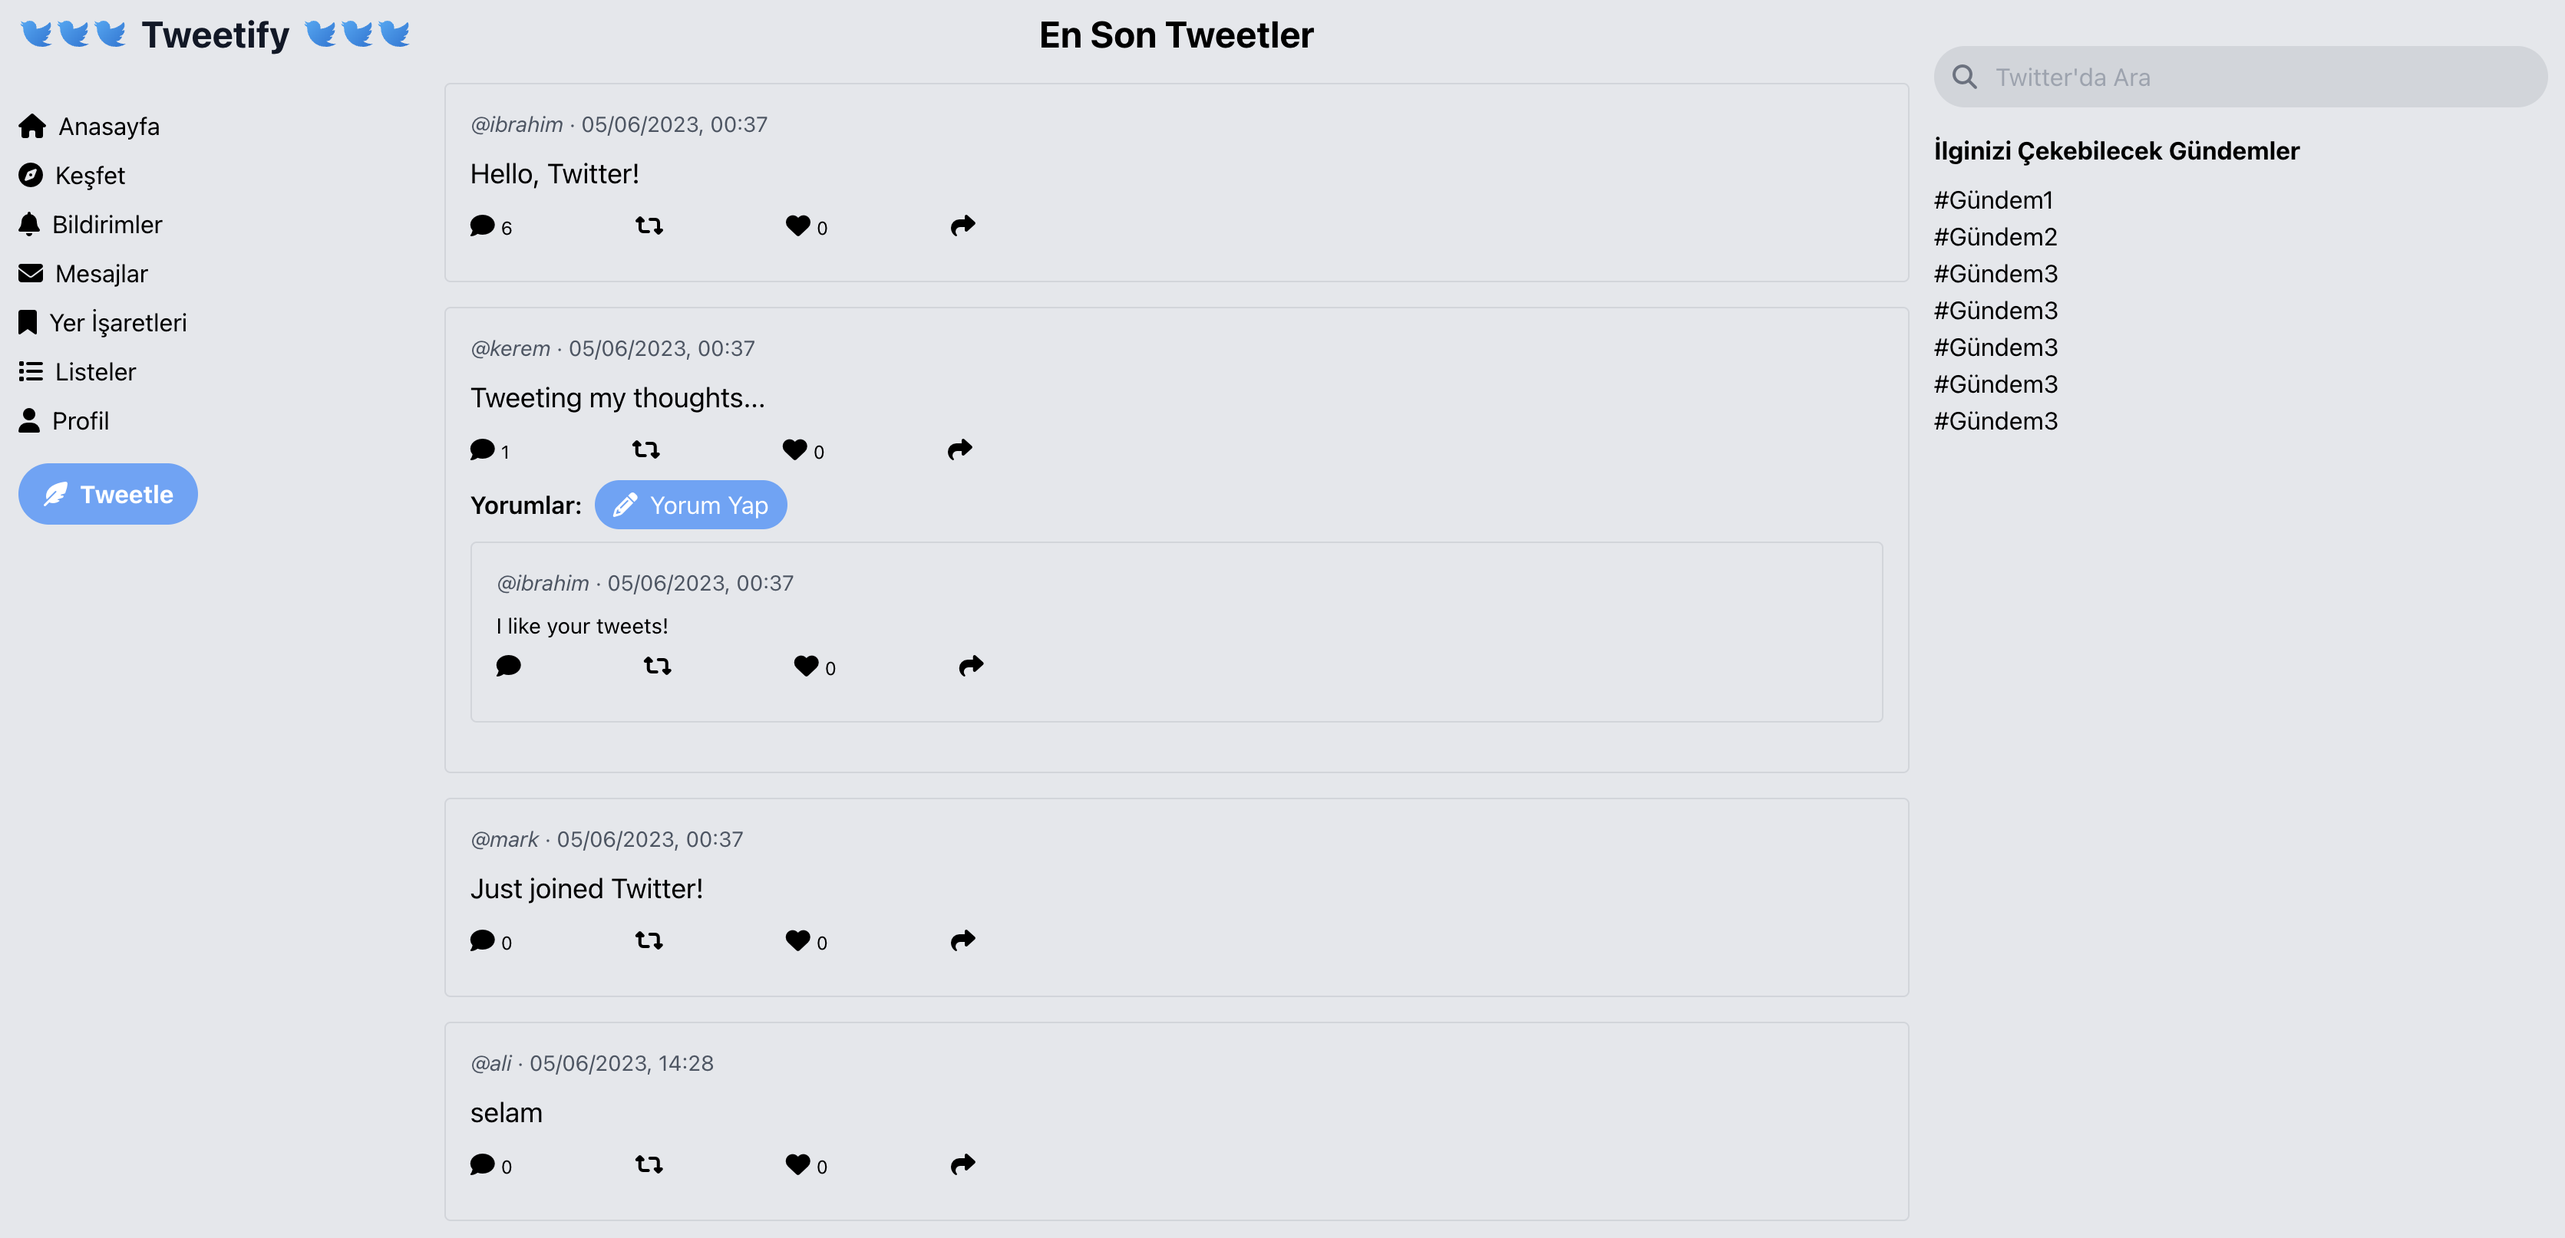
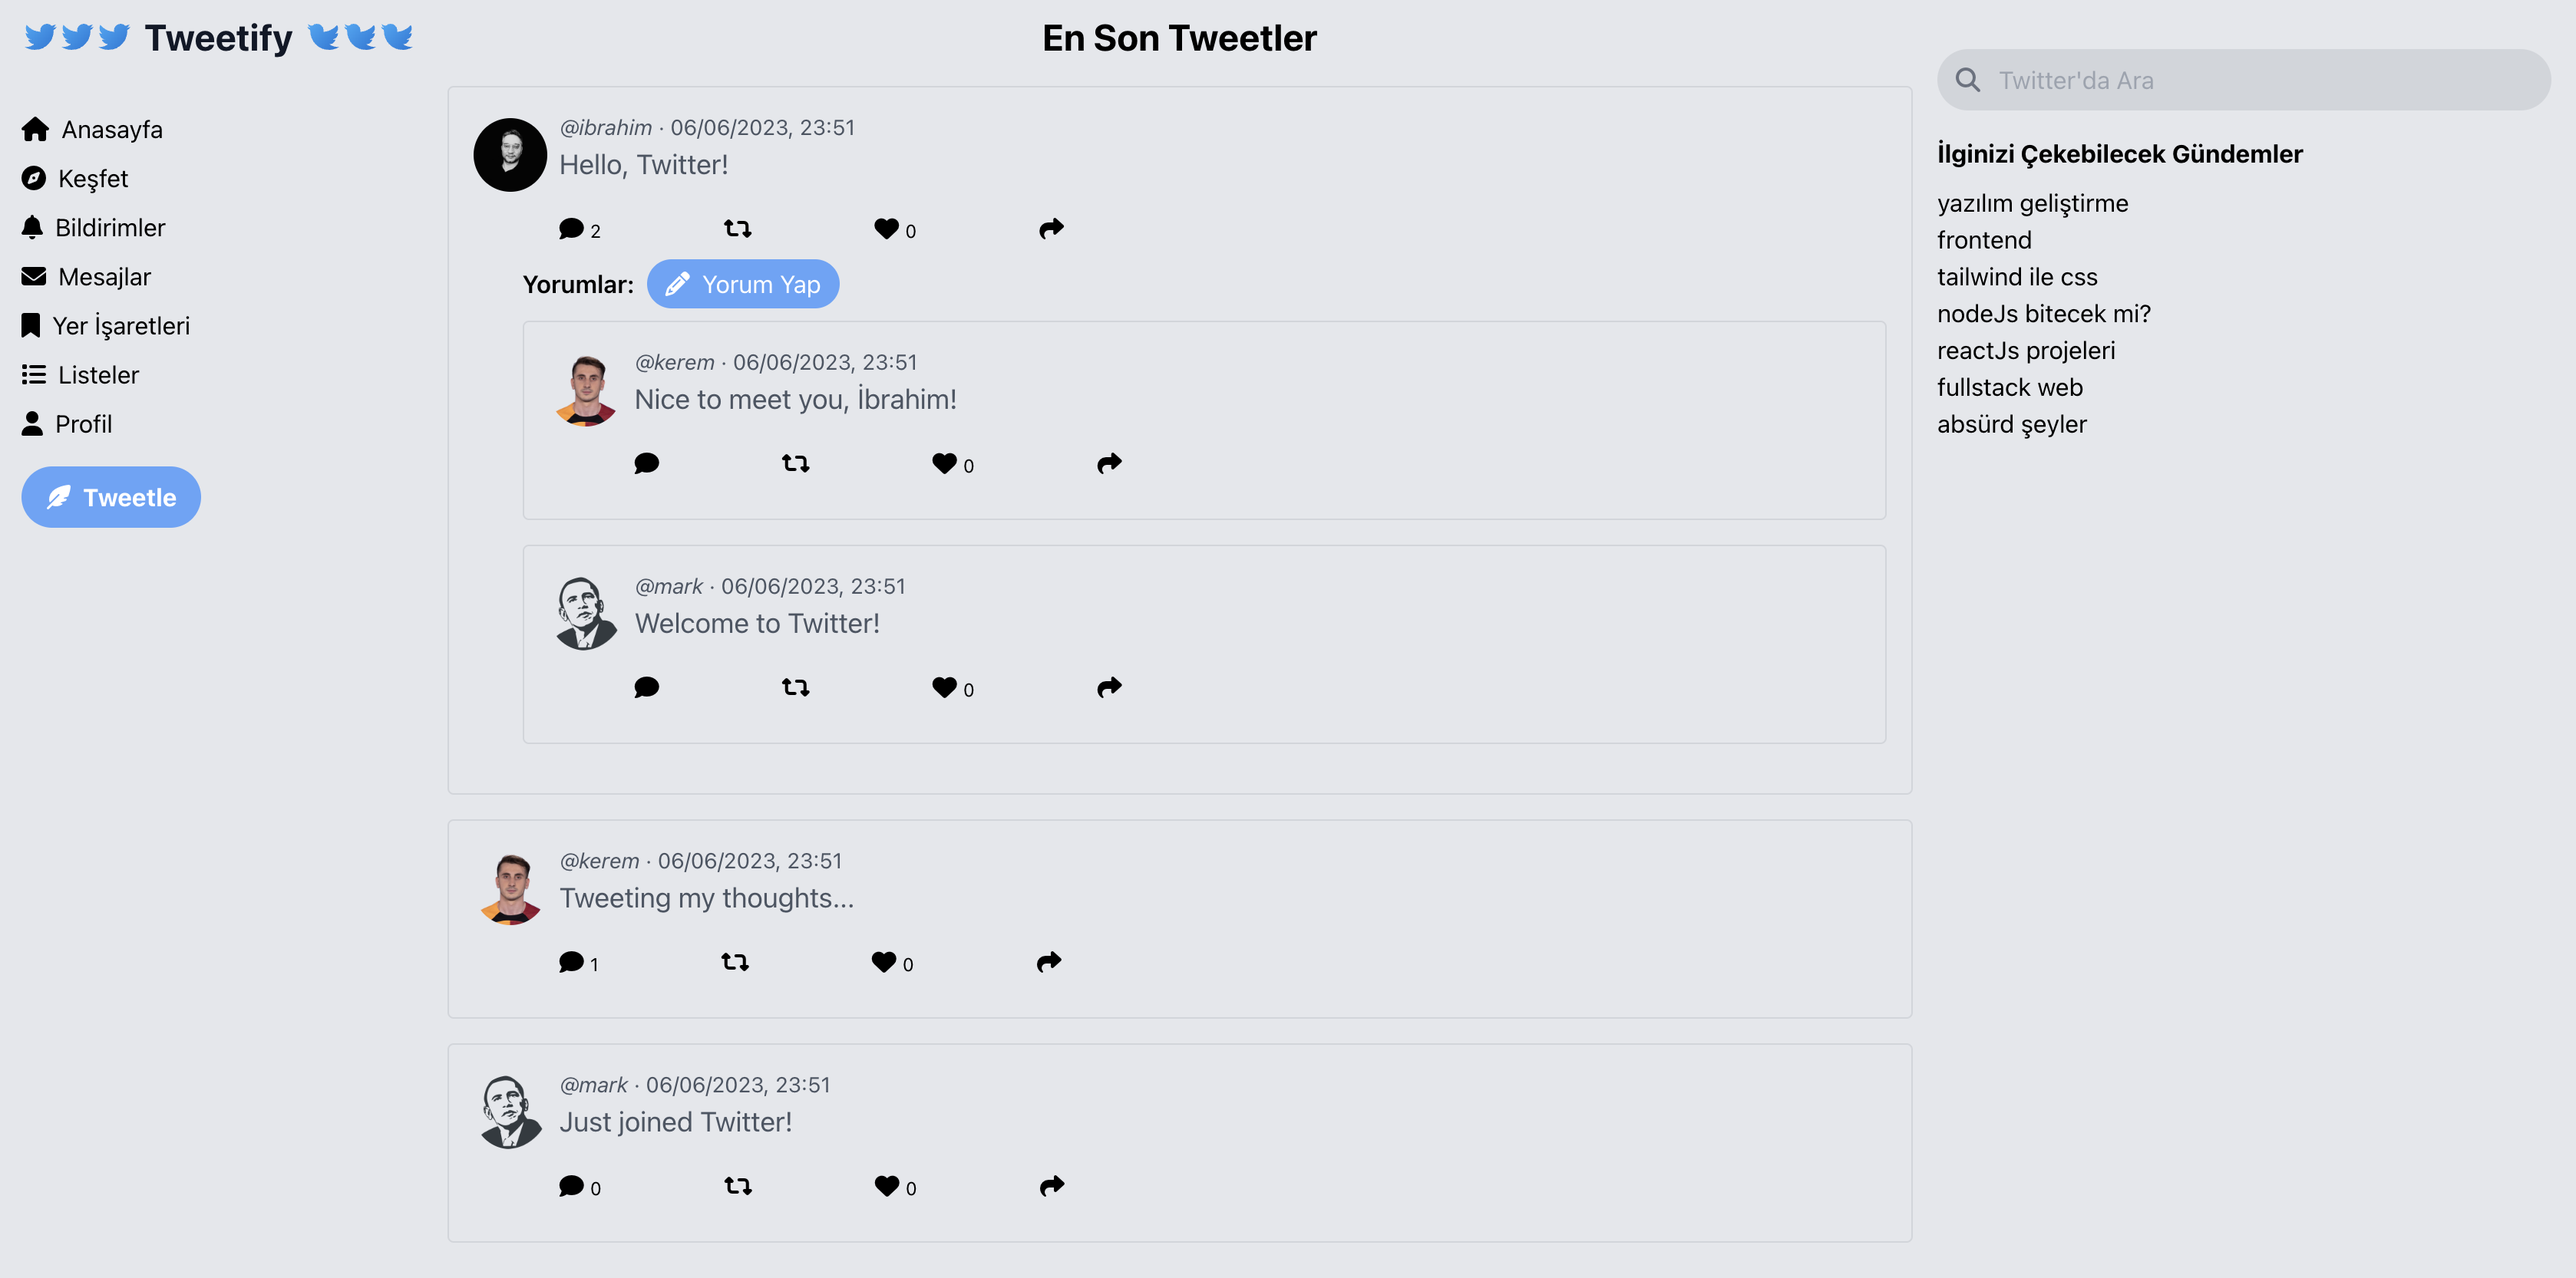
update

diff --git a/src/components/Post.js b/src/components/Post.js
@@ -6,6 +6,7 @@ import { token } from "../App";
 const Post = ({ post }) => {
   const [showComments, setShowComments] = useState(false);
   const [username, setUsername] = useState("");
+  const [avatar, setAvatar] = useState(""); // New state for the avatar
   const [commentContent, setCommentContent] = useState("");
   const [showCommentInput, setShowCommentInput] = useState(false);
 
@@ -26,6 +27,7 @@ const Post = ({ post }) => {
         );
         const userData = response.data;
         setUsername(userData.username);
+        setAvatar(userData.avatar); // Set the avatar state
       } catch (error) {
         console.log(error);
       }
@@ -81,14 +83,22 @@ const Post = ({ post }) => {
   return (
     <div className="post p-4 border border-gray-300 rounded mb-4">
       <div className="flex items-center mb-2">
+        {avatar && (
+          <img
+            src={avatar}
+            alt="Avatar"
+            className="w-12 h-12 rounded-full mr-2"
+          />
+        )}
         <p className="text-sm text-gray-600 mb-0">
           <i>@{username}</i> &middot; {formatCreatedAt(post.created_at)}
+          <h3 className="text-lg mb-2">{post.content}</h3>
         </p>
       </div>
-      <h3 className="text-lg mb-2">{post.content}</h3>
+
       <div className="flex items-center mb-2">
         <button
-          className="action-icon mr-20"
+          className="action-icon ml-14 mr-20"
           aria-label="Comment"
           onClick={toggleComments}
         >
@@ -107,7 +117,7 @@ const Post = ({ post }) => {
         </button>
       </div>
       {showComments && (
-        <div className="comments">
+        <div className="comments ml-8">
           <div className="flex items-center mb-2">
             <h4 className="text-md font-semibold mr-2">Yorumlar:</h4>
             {!showCommentInput ? (

diff --git a/src/components/Comment.js b/src/components/Comment.js
@@ -4,6 +4,7 @@ import { token } from "../App";
 
 const Comment = ({ comment }) => {
   const [username, setUsername] = useState("");
+  const [avatar, setAvatar] = useState(""); // New state for the avatar
 
   useEffect(() => {
     const fetchUsername = async () => {
@@ -19,6 +20,7 @@ const Comment = ({ comment }) => {
         console.log(response);
         const userData = response.data;
         setUsername(userData.username);
+        setAvatar(userData.avatar); // Set the avatar state
       } catch (error) {
         console.log(error);
       }
@@ -42,13 +44,20 @@ const Comment = ({ comment }) => {
   return (
     <div className="post p-4 border border-gray-300 rounded mb-4">
       <div className="flex items-center mb-2">
+        {avatar && (
+          <img
+            src={avatar}
+            alt="Avatar"
+            className="w-12 h-12 rounded-full mr-2"
+          />
+        )}
         <p className="text-sm text-gray-600 mb-0">
           <i>@{username}</i> &middot; {formatCreatedAt(comment.created_at)}
+          <p className="text-lg mb-2">{comment.content}</p>
         </p>
       </div>
-      <p className="text-sm mb-1">{comment.content}</p>
       <div className="flex items-center mb-2">
-        <button className="action-icon mr-20" aria-label="Comment">
+        <button className="action-icon ml-14 mr-20" aria-label="Comment">
           <i className="fas fa-comment"></i>
         </button>
         <button className="action-icon mr-20" aria-label="Retweet">

diff --git a/README.md b/README.md
@@ -1,70 +1,3 @@
-# Getting Started with Create React App
+Twitter-clone projesinin front-end tarafıdır.
 
-This project was bootstrapped with [Create React App](https://github.com/facebook/create-react-app).
-
-## Available Scripts
-
-In the project directory, you can run:
-
-### `npm start`
-
-Runs the app in the development mode.\
-Open [http://localhost:3000](http://localhost:3000) to view it in your browser.
-
-The page will reload when you make changes.\
-You may also see any lint errors in the console.
-
-### `npm test`
-
-Launches the test runner in the interactive watch mode.\
-See the section about [running tests](https://facebook.github.io/create-react-app/docs/running-tests) for more information.
-
-### `npm run build`
-
-Builds the app for production to the `build` folder.\
-It correctly bundles React in production mode and optimizes the build for the best performance.
-
-The build is minified and the filenames include the hashes.\
-Your app is ready to be deployed!
-
-See the section about [deployment](https://facebook.github.io/create-react-app/docs/deployment) for more information.
-
-### `npm run eject`
-
-**Note: this is a one-way operation. Once you `eject`, you can't go back!**
-
-If you aren't satisfied with the build tool and configuration choices, you can `eject` at any time. This command will remove the single build dependency from your project.
-
-Instead, it will copy all the configuration files and the transitive dependencies (webpack, Babel, ESLint, etc) right into your project so you have full control over them. All of the commands except `eject` will still work, but they will point to the copied scripts so you can tweak them. At this point you're on your own.
-
-You don't have to ever use `eject`. The curated feature set is suitable for small and middle deployments, and you shouldn't feel obligated to use this feature. However we understand that this tool wouldn't be useful if you couldn't customize it when you are ready for it.
-
-## Learn More
-
-You can learn more in the [Create React App documentation](https://facebook.github.io/create-react-app/docs/getting-started).
-
-To learn React, check out the [React documentation](https://reactjs.org/).
-
-### Code Splitting
-
-This section has moved here: [https://facebook.github.io/create-react-app/docs/code-splitting](https://facebook.github.io/create-react-app/docs/code-splitting)
-
-### Analyzing the Bundle Size
-
-This section has moved here: [https://facebook.github.io/create-react-app/docs/analyzing-the-bundle-size](https://facebook.github.io/create-react-app/docs/analyzing-the-bundle-size)
-
-### Making a Progressive Web App
-
-This section has moved here: [https://facebook.github.io/create-react-app/docs/making-a-progressive-web-app](https://facebook.github.io/create-react-app/docs/making-a-progressive-web-app)
-
-### Advanced Configuration
-
-This section has moved here: [https://facebook.github.io/create-react-app/docs/advanced-configuration](https://facebook.github.io/create-react-app/docs/advanced-configuration)
-
-### Deployment
-
-This section has moved here: [https://facebook.github.io/create-react-app/docs/deployment](https://facebook.github.io/create-react-app/docs/deployment)
-
-### `npm run build` fails to minify
-
-This section has moved here: [https://facebook.github.io/create-react-app/docs/troubleshooting#npm-run-build-fails-to-minify](https://facebook.github.io/create-react-app/docs/troubleshooting#npm-run-build-fails-to-minify)
+Örnek görsel:
